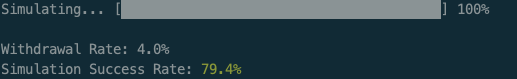
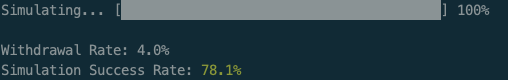
update docs

diff --git a/README.md b/README.md
@@ -1,15 +1,16 @@
 # Retirement Drawdown Simulator 🇨🇦
 
-This is a simple retirement drawdown calculator for Canadians. It simulates how long your savings might last in retirement, assuming you have three accounts (RRSP, taxable, and TFSA) holding some broadly diversified ETFs or index funds for which you can specify an average market return.
+A retirement drawdown calculator for Canadians. It simulates how long your savings might last in retirement, assuming you have three accounts (RRSP, taxable, and TFSA) holding some broadly diversified ETFs or index funds for which you can specify an average market return.
 
-The strategy the simulation follows is:
+Features include:
 
 1. Withdraw from RRSP first, accounting for federal and provincial income taxes.
 2. Withdraw from Taxable account next.
 3. Withdraw from TFSA last.
-4. Optionally you can choose to make a TFSA contribution during the years that the RRSP and taxable accounts are being drawn down, in an attempt to maximize tax free withdrawals later in life.
+4. Optionally you can choose to make a TFSA contribution during the years that the RRSP and taxable accounts are being drawn down, in an attempt to maximize tax free withdrawals later in life (and minimize mandatory RRIF withdrawals after age 71).
 5. Optionally if you specify a cash cushion (i.e. amount of savings you have in an easily accessible liquid account like a high interest savings account), then the simulation will drawdown from the cash cushion rather than investment accounts during periods of market downturns.
 6. Optionally you can specify at what age you plan to take CPP and your monthly entitlement amount. In this case the simulator will reduce your withdrawals accordingly, including factoring in that both RRSP withdrawals and CPP count as taxable income.
+7. Mandatory RRIF withdrawals starting at age 71, according to these [rates](https://www.canada.ca/en/revenue-agency/services/tax/businesses/topics/completing-slips-summaries/t4rsp-t4rif-information-returns/payments/chart-prescribed-factors.html). If the mandatory withdrawal is greater than what you would have wanted to take out, then the after-tax amount is deposited into the taxable account.
 
 > [!IMPORTANT]
 > RRSP withdrawals are treated as income and subject to federal and provincial income tax. This project does a reverse tax calculation, to determine what amount you actually need to withdraw from RRSP to achieve desired spending (and optional TFSA contribution) amount. This is often overlooked in FIRE/retirement calculators. For example, if you want to spend `$40,000` from your RRSP in Ontario, as of 2025 tax rates, you'd have to withdraw approximately `$46,200`.
@@ -20,7 +21,7 @@ You can also run the same scenario over and over with different options for rand
 
 ## Why I Built This
 
-When I started looking for a basic tool to simulate a retirement drawdown in Canada, I couldn’t find anything — just advice to hire a financial planner. While professional guidance is valuable, a relatively simple, transparent tool should exist for those who want to see how long their savings might last under a relatively simple withdrawal strategy.
+When I started looking for a basic tool to simulate a retirement drawdown in Canada, I couldn’t find anything — just advice to hire a financial planner. While professional guidance is valuable, a free, transparent tool should exist for those who want to see how long their savings might last under a relatively simple withdrawal strategy.
 
 ### Disclaimer ⚠
 
@@ -40,6 +41,8 @@ This tool is for **informational and educational purposes only**. It does **not*
    git clone https://github.com/danielabar/retirement-simulator.git
    cd retirement-simulator
    ```
+
+Or download and extract the [project zip file](https://github.com/danielabar/retirement_drawdown_simulator_canada/archive/refs/heads/main.zip).
 
 2. Install dependencies:
 
@@ -171,7 +174,9 @@ taxes:
 
 Here's a run using `inputs.yml` copied from `inputs.yml.template` with a successful result - i.e. money lasts from a starting retirement age of 65 until `max_age` of 95, with at least 1x desired_income left. The desired_income of `$40,000` is 4% of the total starting balance of `$1,000,000` (which is divided among RRSP, taxable, and TFSA accounts). i.e. this is the 4% rule over a thirty year retirement period. There's also 1 year's worth of spending set aside in a cash cushion for use in case of a severe market downturn, which gets used at age 67.
 
-If there's not enough in one account for the full year's spending, it will combine withdrawals from multiple accounts. For example, at age 84 it combines what's left of the RRSP, with some from taxable.
+If there's not enough in one account for the full year's spending, it will combine withdrawals from multiple accounts. For example, at age 82 it combines what's left of the RRSP, with some from taxable.
+
+Also note since the RRSP balance is drained relatively quickly from a combination of desired spending and optional TFSA contribution, by the time mandatory RRIF withdrawals start at age 71, the required percentage of the remaining balance is less than what this user would have withdrawn in any case, so there's never any excess forced withdrawal.
 
 ```
 ruby main.rb
@@ -179,7 +184,7 @@ ruby main.rb
 
 ![demo success](docs/images/demo_success.png "demo success")
 
-Here's another run where a bad initial sequence of returns causes the money to run out by age 82:
+Here's another run where a bad initial sequence of returns causes the money to run out by age 84. The market downturn threshold is set to -20% so you can see at age 76 that the cash cushion is being used, but that's not enough to save this scenario.
 
 ```
 ruby main.rb
@@ -189,7 +194,7 @@ ruby main.rb
 
 ### Determining Your Success Rate
 
-You can use the `success_rate` mode (either specify it in `inputs.yml` or override it at the command line as shown below) to run the simulation many times over. In this case, it calculates the percentage of successful scenarios. For example, this shows that the 4% withdrawal rate over a thirty year period has about a `79%` success rate, rather than the `95%` rate that's often reported in personal finance articles (which is based on US historical data):
+You can use the `success_rate` mode (either specify it in `inputs.yml` or override it at the command line as shown below) to run the simulation many times over. In this case, it calculates the percentage of successful scenarios. For example, this shows that the 4% withdrawal rate over a thirty year period has about a `78%` success rate, rather than the `95%` rate that's often reported in personal finance articles (which is based on US historical data):
 
 ```
 ruby main.rb success_rate
